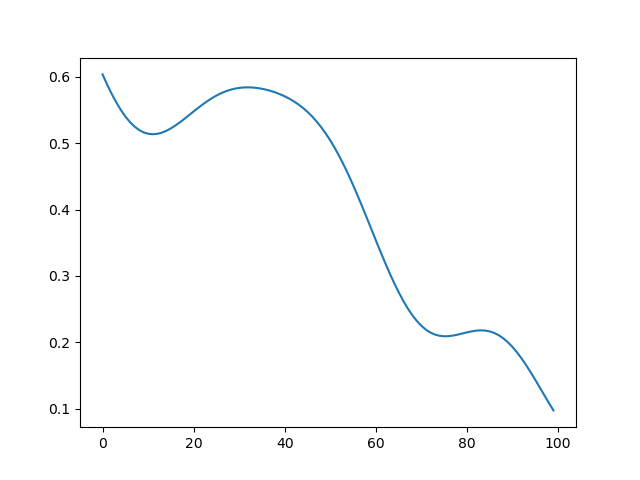
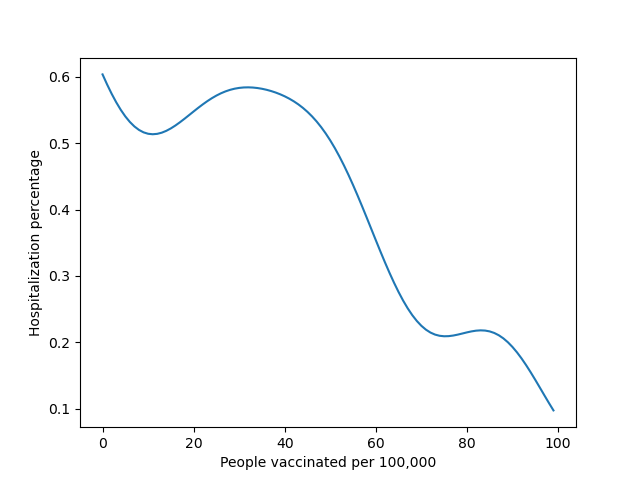
add some analysis

Changed region(s): [[0.3438, 0.9375, 0.6875, 1.0], [0.0312, 0.3125, 0.0625, 0.6875]]

diff --git a/further_analysis.py b/further_analysis.py
@@ -73,6 +73,8 @@ def analyze_vaccination_and_hospitalization():
     Y_fit = model.predict(X_fit)
     plt.figure()
     plt.plot(X_fit, Y_fit)
+    plt.xlabel("People fully vaccinated per hundred")
+    plt.ylabel("Hospitalization percentage")
     plt.savefig("./result/hosp_relation_with_fully_vaccination.png")
 
     model = SVR()
@@ -84,6 +86,8 @@ def analyze_vaccination_and_hospitalization():
     Y_fit = model.predict(X_fit)
     plt.figure()
     plt.plot(X_fit, Y_fit)
+    plt.xlabel("People vaccinated per 100,000")
+    plt.ylabel("Hospitalization percentage")
     plt.savefig("./result/hosp_relation_with_vaccination.png")
 
     model = SVR()
@@ -95,6 +99,8 @@ def analyze_vaccination_and_hospitalization():
     Y_fit = model.predict(X_fit)
     plt.figure()
     plt.plot(X_fit, Y_fit)
+    plt.xlabel("People vaccinated per 100,000")
+    plt.ylabel("ICU admissions per 100,000")
     plt.savefig("./result/icu_relation_with_vaccination.png")
 
     model = SVR()
@@ -106,6 +112,8 @@ def analyze_vaccination_and_hospitalization():
     Y_fit = model.predict(X_fit)
     plt.figure()
     plt.plot(X_fit, Y_fit)
+    plt.xlabel("Fully vaccinated percentage")
+    plt.ylabel("ICU percentage")
     plt.savefig("./result/icu_relation_with_fully_vaccination.png")
 
     model = SVR()
@@ -117,9 +125,11 @@ def analyze_vaccination_and_hospitalization():
     Y_fit = model.predict(X_fit)
     plt.figure()
     plt.plot(X_fit, Y_fit)
+    plt.xlabel("People vaccinated per 100,000")
+    plt.ylabel("ICU admissions per 100,000")
     plt.savefig("./result/icu_relation_with_boosters.png")
 
-    model = SVR()
+    model = SVR(kernel="poly")
     model.fit(
         bos[valid_hosp_bos][hosp_percentage_bos < 5].reshape(-1, 1),
         hosp_percentage_bos[hosp_percentage_bos < 5],
@@ -128,6 +138,8 @@ def analyze_vaccination_and_hospitalization():
     Y_fit = model.predict(X_fit)
     plt.figure()
     plt.plot(X_fit, Y_fit)
+    plt.xlabel("Boosters per 100,000")
+    plt.ylabel("Hospitalization rate per 100,000")
     plt.savefig("./result/hosp_relation_with_boosters.png")
 
 
@@ -147,8 +159,8 @@ def analyze_smokers_and_COVID():
     deaths = np.array(data_OWID["new_deaths_per_million"])
     smokers = np.array(data_OWID["male_smokers"])
     new_cases = np.array(data_OWID["new_cases_per_million"])
-    icu = np.array( data_OWID["weekly_icu_admissions_per_million"])
-    hosp =  np.array( data_OWID["weekly_hosp_admissions_per_million"])
+    icu = np.array(data_OWID["weekly_icu_admissions_per_million"])
+    hosp = np.array(data_OWID["weekly_hosp_admissions_per_million"])
 
     valid_data_deaths = (
         (~np.isnan(deaths))
@@ -157,11 +169,11 @@ def analyze_smokers_and_COVID():
         * (smokers < 80)
         * (smokers > 10)
     )
-    
+
     valid_data_icu = (
         (~np.isnan(icu))
         * (~np.isnan(smokers))
-        * (new_cases > 1)    
+        * (new_cases > 1)
         * (smokers < 80)
         * (smokers > 10)
     )
@@ -172,7 +184,7 @@ def analyze_smokers_and_COVID():
         * (smokers < 80)
         * (smokers > 10)
     )
-    
+
     deaths_percentage = deaths[valid_data_deaths] / new_cases[valid_data_deaths]
     smokers_deaths = smokers[valid_data_deaths]
     icu_percentage = icu[valid_data_icu] / new_cases[valid_data_icu]
@@ -194,6 +206,7 @@ def analyze_smokers_and_COVID():
 
     plt.figure()
     plt.bar(["0-20", "20-40", "40-60", "60-80"], height=average_death_rate)
+    plt.ylabel("Average Death Rate")
     plt.savefig("./result/death_relation_with_smokers.png")
 
     average_icu_rate = []
@@ -207,11 +220,13 @@ def analyze_smokers_and_COVID():
     # average_icu_rate.append(
     #     icu_percentage[((smokers_icu >= 60) * (smokers_icu < 70))].mean()
     # )
-     
+
     plt.figure()
     plt.bar(["< 40", " > 40"], height=average_icu_rate)
+    plt.xlabel("Smokers share")
+    plt.ylabel("Average ICU admissions rate")
     plt.savefig("./result/icu_relation_with_smokers.png")
-     
+
     average_hosp_rate = []
     # average_hosp_rate.append(hosp_percentage[smokers_hosp < 20].mean())
     average_hosp_rate.append(
@@ -223,16 +238,100 @@ def analyze_smokers_and_COVID():
     # average_hosp_rate.append(
     #     hosp_percentage[((smokers_hosp >= 60) * (smokers_hosp < 80))].mean()
     # )
-     
+
     plt.figure()
-    plt.bar([ "< 40", " > 40"], height=average_hosp_rate)
+    plt.bar(["< 40", " > 40"], height=average_hosp_rate)
+    plt.xlabel("Smokers share")
+    plt.ylabel("Average hospital admission rate")
     plt.savefig("./result/hosp_relation_with_smokers.png")
+
+
+def analyze_policy_and_COVID():
+    data_OWID = load_data.read_data("./data/owid-covid-data.csv")
+    data_OWID = load_data.extract_data(
+        data_OWID, ["date", "new_cases_per_million", "stringency_index"]
+    )
+
+    new_cases = np.array(data_OWID["new_cases_per_million"])
+    policy = np.array(data_OWID["stringency_index"])
+
+    valid_policy_cases = (~np.isnan(new_cases)) * (~np.isnan(policy)) * (policy > 10)
+
+    container_policy_cases = []
+    for i in range(10, 100, 5):
+        container_policy_cases.append(
+            new_cases[valid_policy_cases][
+                (
+                    (policy[valid_policy_cases] >= i)
+                    * (policy[valid_policy_cases] < i + 5)
+                )
+            ].mean()
+        )
+    plt.figure()
+    plt.scatter(range(10, 100, 5), container_policy_cases)
+    plt.ylabel("Average new cases per million")
+    plt.xlabel("Stringency index")
+    plt.savefig("./result/policy_relation_with_cases_raw.png")
+    from sklearn.svm import SVR
+
+    model = SVR(kernel="poly")
+    model.fit(np.array(range(10, 100, 5)).reshape(-1, 1), container_policy_cases)
+
+    X_fit = np.arange(100).reshape(-1, 1)
+    Y_fit = model.predict(X_fit)
+    plt.figure()
+    plt.plot(X_fit, Y_fit)
+    plt.ylabel("Average new cases per million")
+    plt.xlabel("Stringency index")
+    plt.savefig("./result/policy_relation_with_cases.png")
+
+    # def county_policy(country):
+    #     Country_data = load_data.read_data(
+    #         "./data/owid-covid-data.csv", "location", country
+    #     )
+    #     Country_data = load_data.extract_data(
+    #         Country_data, ["stringency_index", "date"]
+    #     )
+    #     date = np.array(Country_data["date"])
+    #     policy = np.array(Country_data["stringency_index"])
+    #     # valid_data = (~np.isnan(policy)) * (~np.isnan(date))
+    #     plt.plot(date, policy)
+
+    # plt.figure()
+    # county_policy("Japan")
+    # plt.show()
+    Country_data = load_data.read_data(
+        "./data/owid-covid-data.csv"
+    )
+    Country_data = load_data.extract_data(Country_data, ["stringency_index", "date"])
+    date_ = np.array(Country_data['date'])
+    policy_ = np.array(Country_data["stringency_index"])
+    date_iter =     Country_data = load_data.read_data(
+        "./data/owid-covid-data.csv",'location','United States'
+    )
+    valid_data = (~np.isnan(policy_))
+    policy_ = policy_[valid_data]
+    date_ = date_[valid_data]
+    date_iter = np.array(load_data.extract_data(Country_data, ["date"]))
+    policy_container = []
+    for i in date_iter:
+        policy_container.append(policy_[date_ == i].mean())
+    plt.figure()
+    plt.xlabel("Date")
+    plt.ylabel("Stringency index")
+    plt.xticks(range(0,date_iter.shape[0],200))
+    # date__ = list(date_iter.squeeze())
+    # plt.xticks([date__.index('2020-12-01'),date__.index('2021-02-01'),date__.index('2021-03-01'),date__.index('2021-11-01')])
+    plt.plot(date_iter.squeeze(),policy_container)
+    plt.show()
+    
 
 
 
 def main():
-    analyze_vaccination_and_hospitalization()
-    analyze_smokers_and_COVID()
+    # analyze_vaccination_and_hospitalization()
+    # analyze_smokers_and_COVID()
+    analyze_policy_and_COVID()
 
 
 main()

diff --git a/model.py b/model.py
@@ -1,5 +1,4 @@
-#TODO build a NN
-from pickletools import optimize
+# TODO build a NN
 import torch
 import torch.nn as nn
 import numpy as np
@@ -7,8 +6,40 @@ import pandas as pd
 import matplotlib.pyplot as plt
 import load_data
 
-data_raw = load_data.read_data('./data/owid-covid-data.csv','location','World')
-data = load_data.extract_data(data_raw,['date','new_cases_smoothed'])
-length = data.shape[0]
-Y = data['new_cases_smoothed']
-X = np.arange(length)
+data_raw = load_data.read_data("./data/owid-covid-data.csv")
+data = load_data.extract_data(
+    data_raw,
+    [
+        'reproduction_rate',
+        'total_vaccinations',
+        'people_vaccinated',
+        'people_fully_vaccinated',
+        'total_boosters',
+        'new_vaccinations',
+        'new_vaccinations_smoothed',
+        'total_vaccinations_per_hundred',
+        'people_vaccinated_per_hundred',
+        'people_fully_vaccinated_per_hundred',
+        'total_boosters_per_hundred',
+        'new_vaccinations_smoothed_per_million',
+        'new_people_vaccinated_smoothed',
+        'new_people_vaccinated_smoothed_per_hundred',
+        'stringency_index',
+        'population',
+        'population_density',
+        'median_age',
+        'aged_65_older',
+        'aged_70_older',
+        'gdp_per_capita',
+        'extreme_poverty',
+        'cardiovasc_death_rate',
+        'diabetes_prevalence',
+        'female_smokers',
+        'male_smokers',
+        'handwashing_facilities',
+        'hospital_beds_per_thousand',
+        'life_expectancy',
+        'human_development_index',
+    ],
+)
+print(data)
